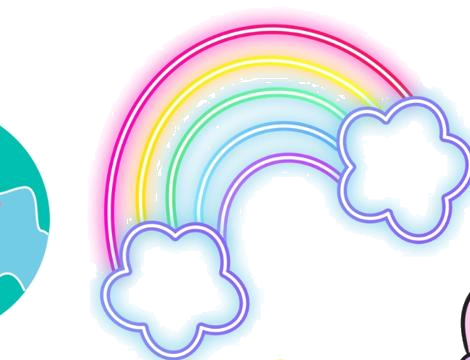
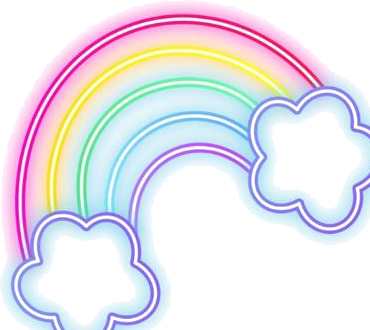
cd

diff --git a/components/FloatingShapes.tsx b/components/FloatingShapes.tsx
@@ -6,8 +6,19 @@ export default function FloatingShapes() {
       <div className="absolute bottom-[14%] left-[8%] h-24 w-24 animate-floaty rounded-[35%] bg-limon/45 [animation-delay:2s]" />
       <div className="absolute bottom-[20%] right-[14%] h-14 w-14 animate-wiggle rounded-xl bg-lila/70" />
       <span className="absolute left-[18%] top-[26%] animate-floaty text-3xl [animation-delay:0.5s]">⭐</span>
-      <img src="/images/custom/sticker-rainbow.png" alt="" className="absolute right-[20%] top-[6%] h-10 w-14 animate-floaty object-contain [animation-delay:1.3s]" />
-      <img src="/images/custom/sticker-pencil.png" alt="" className="absolute bottom-[16%] right-[4%] h-14 w-10 animate-floaty object-contain [animation-delay:2.2s]" />
+
+      <img
+        src="/images/custom/sticker-rainbow.png"
+        alt=""
+        className="absolute right-[12%] top-[12%] h-16 w-auto animate-floaty object-contain [animation-delay:1.3s]"
+      />
+
+      <img
+        src="/images/custom/sticker-pencil.png"
+        alt=""
+        className="absolute bottom-[8%] right-[5%] h-20 w-auto animate-floaty object-contain [animation-delay:2.2s]"
+      />
+
       <span className="absolute bottom-[35%] left-[3%] animate-wiggle text-3xl">🧩</span>
     </div>
   );
